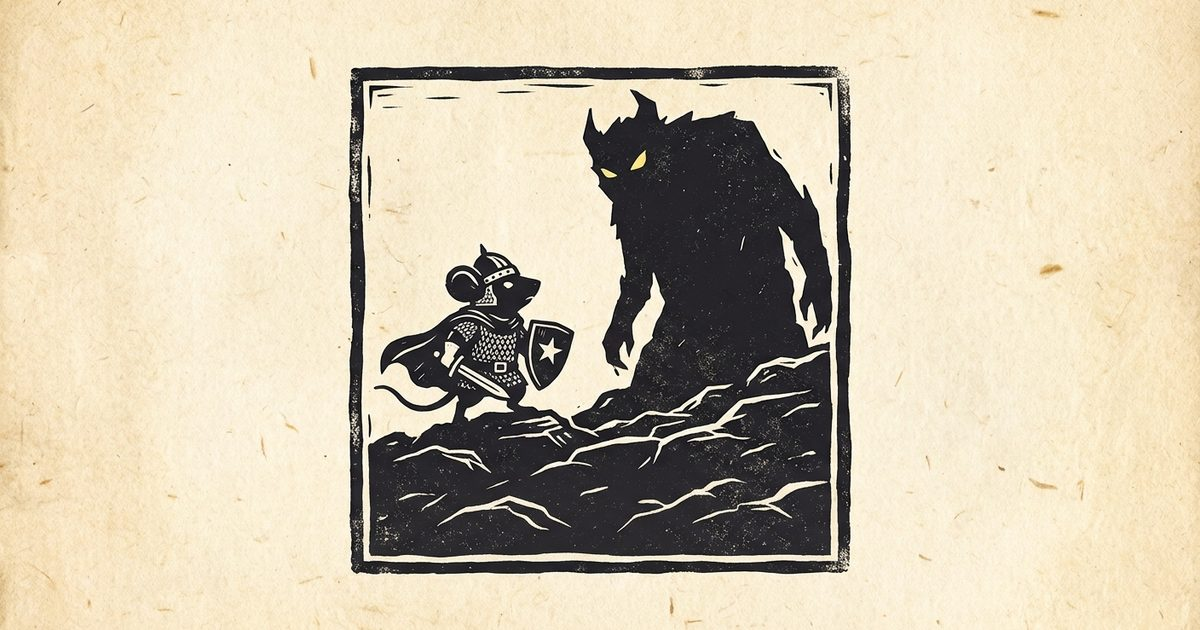
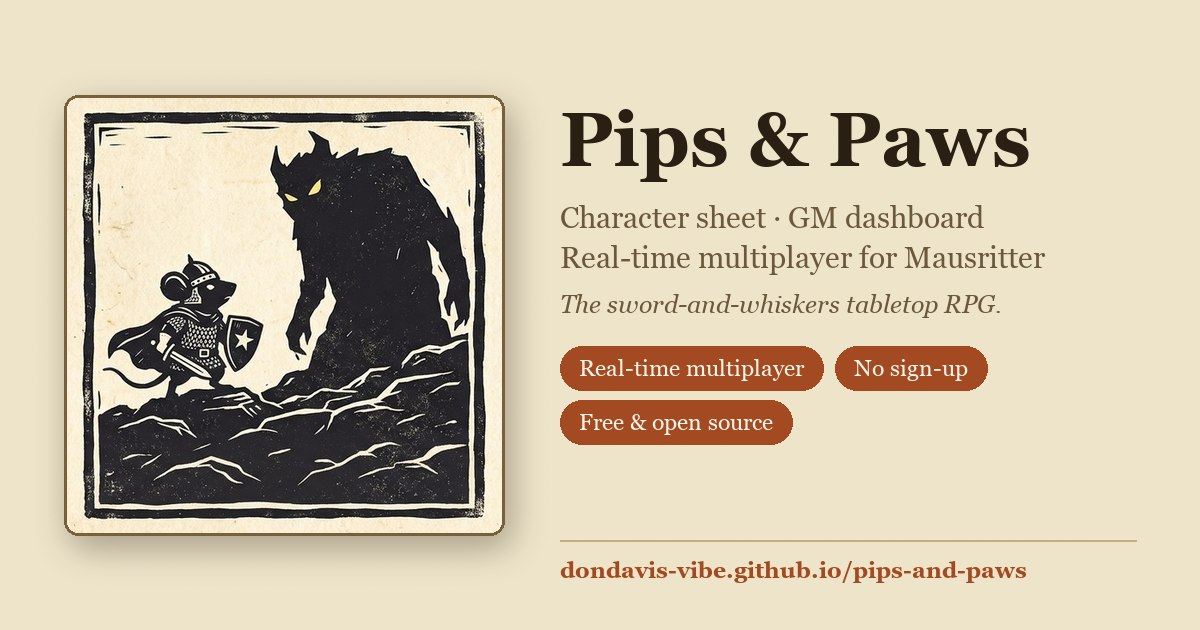
Charakterbilder + neue Social-Card
- Portrait-Komponente: Spieler laden im "Maus"-Panel ein Bild hoch, wird auf
  320px quadratisch zugeschnitten und als data-URL (~15-25 KB) am Charakter
  gespeichert. Platzhalter = Ritter-Maus-Holzschnitt. Entfernen-Knopf.
- Geht ueber den bestehenden T_STATE-Sync automatisch an den SL; im
  SL-Dashboard erscheint das Bild auf jeder Spielerkarte (nur Anzeige).
- Im JSON-Export/-Import enthalten. character.js: portrait-Feld + normalize.
- og.jpg neu: gerahmter Holzschnitt + Titel + Kurzbeschreibung + Badges + URL
  auf Pergament (statt der reinen Text-Kachel).
- img/ ist jetzt lokaler Arbeitsordner (gitignored bis auf die Holzschnitt-Quelle).

Verifiziert mit zwei Clients: Upload -> Zuschnitt -> Sync -> SL-Karte. Build + Lint gruen.

diff --git a/src/components/CharacterSheet.jsx b/src/components/CharacterSheet.jsx
@@ -14,6 +14,7 @@ import AddItemMenu from './AddItemMenu.jsx';
 import DiceRoller from './DiceRoller.jsx';
 import SharedStash from './SharedStash.jsx';
 import PartyLog from './PartyLog.jsx';
+import Portrait from './Portrait.jsx';
 import { tryMove, addItem, removeItem } from '../rules/inventory.js';
 import { rollSave } from '../rules/dice.js';
 import { shareSave } from '../utils/discord.js';
@@ -84,28 +85,35 @@ export default function CharacterSheet({ character, setCharacter, notify, onEven
             <User size={18} /> {t('sheet.identity')}
           </h2>
         </div>
-        <div className="identity-grid">
-          <Field label={t('sheet.name')} className="field-hero">
-            <TextInput value={character.name} onChange={(v) => patch({ name: v })} placeholder="…" />
-          </Field>
-          <Field label={t('sheet.player')}>
-            <TextInput value={character.playerName} onChange={(v) => patch({ playerName: v })} />
-          </Field>
-          <Field label={t('sheet.background')}>
-            <TextInput value={character.background} onChange={(v) => patch({ background: v })} />
-          </Field>
-          <Field label={t('sheet.birthsign')}>
-            <TextInput value={character.birthsign} onChange={(v) => patch({ birthsign: v })} />
-          </Field>
-          <Field label={t('sheet.disposition')}>
-            <TextInput value={character.disposition} onChange={(v) => patch({ disposition: v })} />
-          </Field>
-          <Field label={t('sheet.coat')}>
-            <TextInput value={character.coat} onChange={(v) => patch({ coat: v })} />
-          </Field>
-          <Field label={t('sheet.detail')}>
-            <TextInput value={character.detail} onChange={(v) => patch({ detail: v })} />
-          </Field>
+        <div className="identity-layout">
+          <Portrait
+            src={character.portrait}
+            onChange={(p) => patch({ portrait: p })}
+            notify={notify}
+          />
+          <div className="identity-grid">
+            <Field label={t('sheet.name')} className="field-hero">
+              <TextInput value={character.name} onChange={(v) => patch({ name: v })} placeholder="…" />
+            </Field>
+            <Field label={t('sheet.player')}>
+              <TextInput value={character.playerName} onChange={(v) => patch({ playerName: v })} />
+            </Field>
+            <Field label={t('sheet.background')}>
+              <TextInput value={character.background} onChange={(v) => patch({ background: v })} />
+            </Field>
+            <Field label={t('sheet.birthsign')}>
+              <TextInput value={character.birthsign} onChange={(v) => patch({ birthsign: v })} />
+            </Field>
+            <Field label={t('sheet.disposition')}>
+              <TextInput value={character.disposition} onChange={(v) => patch({ disposition: v })} />
+            </Field>
+            <Field label={t('sheet.coat')}>
+              <TextInput value={character.coat} onChange={(v) => patch({ coat: v })} />
+            </Field>
+            <Field label={t('sheet.detail')}>
+              <TextInput value={character.detail} onChange={(v) => patch({ detail: v })} />
+            </Field>
+          </div>
         </div>
       </section>
 

diff --git a/src/theme.css b/src/theme.css
@@ -513,11 +513,91 @@ summary,
   box-shadow: var(--ring);
 }
 
+.identity-layout {
+  display: flex;
+  gap: 18px;
+  align-items: flex-start;
+}
+
+.identity-layout .identity-grid {
+  flex: 1;
+  min-width: 0;
+}
+
+@media (max-width: 560px) {
+  .identity-layout { flex-direction: column; align-items: center; }
+  .identity-layout .identity-grid { width: 100%; }
+}
+
 .identity-grid {
   display: grid;
-  grid-template-columns: repeat(auto-fit, minmax(170px, 1fr));
+  grid-template-columns: repeat(auto-fit, minmax(160px, 1fr));
   gap: 12px 14px;
 }
+
+/* ---- Portrait ---- */
+.portrait {
+  position: relative;
+  flex-shrink: 0;
+  border-radius: 14px;
+  overflow: hidden;
+  border: 1px solid var(--line-strong);
+  background: var(--bg-sunk);
+  box-shadow: var(--shadow), inset 0 0 0 1px var(--hi);
+}
+
+.portrait-md { width: 116px; height: 116px; }
+.portrait-sm { width: 52px; height: 52px; border-radius: 10px; }
+
+.portrait img {
+  width: 100%;
+  height: 100%;
+  object-fit: cover;
+  display: block;
+}
+
+.portrait img.portrait-is-placeholder { opacity: 0.85; }
+
+.portrait-edit,
+.portrait-remove {
+  position: absolute;
+  display: inline-flex;
+  align-items: center;
+  justify-content: center;
+  border: 1px solid color-mix(in srgb, var(--ink) 30%, transparent);
+  background: color-mix(in srgb, var(--bg-panel) 82%, transparent);
+  backdrop-filter: blur(3px);
+  color: var(--ink);
+  border-radius: 8px;
+}
+
+.portrait-edit {
+  right: 5px;
+  bottom: 5px;
+  width: 26px;
+  height: 26px;
+  opacity: 0;
+}
+
+.portrait-sm .portrait-edit { width: 20px; height: 20px; right: 3px; bottom: 3px; border-radius: 6px; }
+
+.portrait-editable:hover .portrait-edit,
+.portrait-edit:focus-visible { opacity: 1; }
+
+.portrait-remove {
+  right: 5px;
+  top: 5px;
+  width: 22px;
+  height: 22px;
+  border-radius: 999px;
+  opacity: 0;
+}
+
+.portrait-editable:hover .portrait-remove,
+.portrait-remove:focus-visible { opacity: 1; }
+
+.portrait-editable { cursor: default; }
+.portrait-editable .portrait-edit:hover { border-color: var(--accent); color: var(--accent); }
 
 .identity-grid .field-hero {
   grid-column: 1 / -1;
@@ -2151,9 +2231,20 @@ summary,
 
 .gm-card-head {
   display: flex;
-  justify-content: space-between;
-  align-items: baseline;
-  gap: 8px;
+  align-items: center;
+  gap: 10px;
+}
+
+.gm-card-id {
+  min-width: 0;
+  display: flex;
+  flex-direction: column;
+  gap: 1px;
+}
+
+.gm-card-id > strong {
+  font-family: var(--font-display);
+  font-size: 14px;
 }
 
 .gm-bg {
@@ -2164,8 +2255,7 @@ summary,
 
 .gm-lvl {
   font-size: 11px;
-  color: var(--ink-dim);
-  white-space: nowrap;
+  color: var(--ink-faint);
 }
 
 .gm-hp-row {

diff --git a/src/components/Portrait.jsx b/src/components/Portrait.jsx
@@ -1,0 +1,66 @@
+import { useRef } from 'react';
+import { Camera, X } from 'lucide-react';
+import { useLang } from '../i18n/index.jsx';
+import placeholder from '../assets/portrait-placeholder.jpg';
+import { readPortrait } from '../utils/portrait.js';
+
+// Charakterbild. Mit onChange = bearbeitbar (Spieler), ohne = nur Anzeige (SL).
+export default function Portrait({ src, onChange, notify, size = 'md' }) {
+  const { t } = useLang();
+  const inputRef = useRef(null);
+  const editable = typeof onChange === 'function';
+
+  const pick = async (file) => {
+    if (!file) return;
+    try {
+      onChange(await readPortrait(file));
+    } catch {
+      notify?.(t('portrait.failed'), 'bad');
+    }
+  };
+
+  return (
+    <div className={`portrait portrait-${size}${editable ? ' portrait-editable' : ''}`}>
+      <img
+        src={src || placeholder}
+        alt={src ? t('portrait.alt') : t('portrait.placeholderAlt')}
+        className={src ? '' : 'portrait-is-placeholder'}
+        draggable="false"
+      />
+      {editable ? (
+        <>
+          <button
+            type="button"
+            className="portrait-edit"
+            onClick={() => inputRef.current?.click()}
+            aria-label={src ? t('portrait.change') : t('portrait.add')}
+            title={src ? t('portrait.change') : t('portrait.add')}
+          >
+            <Camera size={size === 'sm' ? 13 : 15} />
+          </button>
+          {src ? (
+            <button
+              type="button"
+              className="portrait-remove"
+              onClick={() => onChange('')}
+              aria-label={t('portrait.remove')}
+              title={t('portrait.remove')}
+            >
+              <X size={12} />
+            </button>
+          ) : null}
+          <input
+            ref={inputRef}
+            type="file"
+            accept="image/*"
+            hidden
+            onChange={(e) => {
+              pick(e.target.files?.[0]);
+              e.target.value = '';
+            }}
+          />
+        </>
+      ) : null}
+    </div>
+  );
+}

diff --git a/src/components/GmPlayerCard.jsx b/src/components/GmPlayerCard.jsx
@@ -5,6 +5,7 @@ import { readJSON, writeJSON } from '../utils/storage.js';
 import { gritForLevel, ALL_SLOTS, PAW_SLOTS } from '../rules/character.js';
 import { CONDITION_CATALOG } from '../data/items.js';
 import AddItemMenu from './AddItemMenu.jsx';
+import Portrait from './Portrait.jsx';
 import {
   GM_DAMAGE, GM_HEAL, GM_PIPS, GM_XP, GM_SAVE, GM_GIVE, GM_CONDITION, GM_WHISPER,
 } from '../multiplayer/protocol.js';
@@ -48,16 +49,17 @@ export default function GmPlayerCard({ player, onCommand }) {
   return (
     <div className="gm-card">
       <div className="gm-card-head">
+        <Portrait src={c.portrait} size="sm" />
         <div className="gm-card-id">
           <strong>{c.name || '?'}</strong>
           <span className="gm-bg">
             {c.background || ''}
             {c.disposition ? ` · ${c.disposition}` : ''}
           </span>
+          <span className="gm-lvl">
+            {t('res.level')} {c.level || 1} · {t('res.grit')} {grit} · {t('res.xp')} {c.xp ?? 0}
+          </span>
         </div>
-        <span className="gm-lvl">
-          {t('res.level')} {c.level || 1} · {t('res.grit')} {grit} · {t('res.xp')} {c.xp ?? 0}
-        </span>
       </div>
 
       <div className="gm-hp">

diff --git a/src/utils/portrait.js b/src/utils/portrait.js
@@ -1,0 +1,33 @@
+// Bild einer Datei einlesen, quadratisch zuschneiden, verkleinern und als
+// data-URL zurueckgeben. Klein genug fuer localStorage und den P2P-Sync.
+export function readPortrait(file, size = 320) {
+  return new Promise((resolve, reject) => {
+    if (!file || !file.type || !file.type.startsWith('image/')) {
+      reject(new Error('notImage'));
+      return;
+    }
+    const url = URL.createObjectURL(file);
+    const img = new Image();
+    img.onload = () => {
+      URL.revokeObjectURL(url);
+      try {
+        const canvas = document.createElement('canvas');
+        canvas.width = size;
+        canvas.height = size;
+        const ctx = canvas.getContext('2d');
+        const scale = Math.max(size / img.width, size / img.height);
+        const w = img.width * scale;
+        const h = img.height * scale;
+        ctx.drawImage(img, (size - w) / 2, (size - h) / 2, w, h);
+        resolve(canvas.toDataURL('image/jpeg', 0.82));
+      } catch {
+        reject(new Error('encodeFailed'));
+      }
+    };
+    img.onerror = () => {
+      URL.revokeObjectURL(url);
+      reject(new Error('loadFailed'));
+    };
+    img.src = url;
+  });
+}

diff --git a/src/rules/character.js b/src/rules/character.js
@@ -38,6 +38,7 @@ export function blankCharacter() {
     schemaVersion: SCHEMA_VERSION,
     id: newId('c'),
     name: '',
+    portrait: '',
     playerName: '',
     background: '',
     birthsign: '',
@@ -76,6 +77,7 @@ export function normalizeCharacter(raw) {
   }
   merged.inventory = { ...base.inventory, ...raw.inventory };
   merged.items = raw.items && typeof raw.items === 'object' ? raw.items : {};
+  merged.portrait = typeof raw.portrait === 'string' ? raw.portrait : '';
   merged.schemaVersion = SCHEMA_VERSION;
   return merged;
 }
